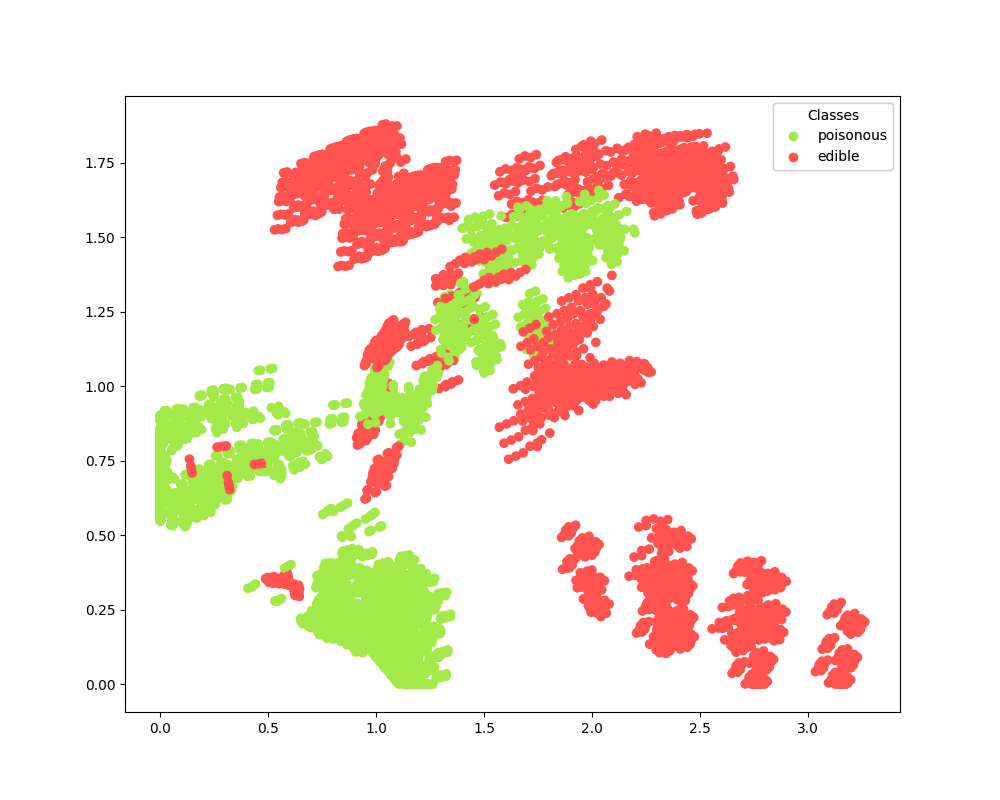
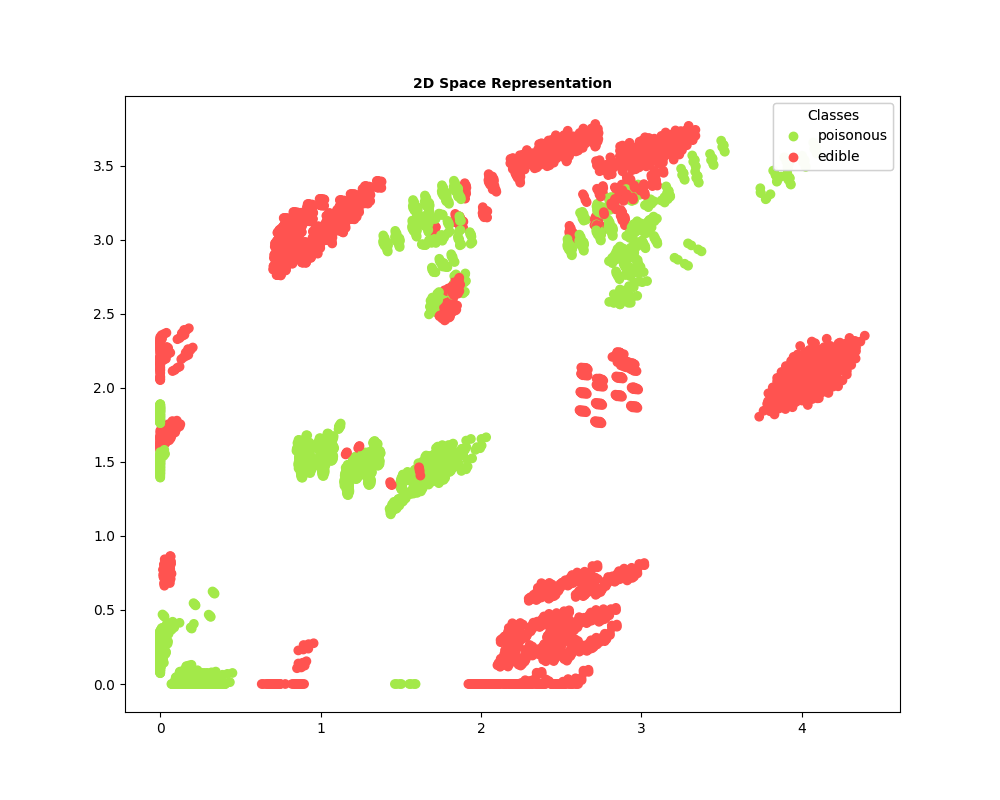
Add additional graphs

diff --git a/autoencoder/mushroom-dataset-autoencoder/encoder.py b/autoencoder/mushroom-dataset-autoencoder/encoder.py
@@ -91,6 +91,7 @@ def plot_encoded_dims(data):
     legend.get_texts()[1].set_text('edible')
 
     ax.add_artist(legend)
+    plt.title('2D Space Representation', fontsize=10, fontweight='bold')
     plt.savefig('images/2D_visualisation')
     plt.show()
 

diff --git a/autoencoder/mushroom-dataset-autoencoder/README.md b/autoencoder/mushroom-dataset-autoencoder/README.md
@@ -31,10 +31,14 @@ The architecture of the autoencoder consists of an encoder with:
 
 ## 2D Representation
 
-The plot shows that the two classes are not linearly separable when represented in a 2D space (reducing the dimensions to a 3D rather than a 2D space added no meaningful benefit to the data visualisation). Nevertheless, a
-[deep neural network](https://github.com/Carla-de-Beer/tensorflow-2.x-projects/tree/master/dff/classifier/mushroom-dataset-classifier)
-is easily capable to differentiate between the two classes with a high level of accuracy.
+The plots show that the two classes are not linearly separable when represented in a 2D space
+(reducing the dimensions to a 3D rather than a 2D space added no meaningful benefit to the data visualisation).
+The graphs at times also display some clumping together of data points within a class.
+Nevertheless, a [deep neural network](https://github.com/Carla-de-Beer/tensorflow-2.x-projects/tree/master/dff/classifier/mushroom-dataset-classifier) is easily capable to differentiate between the two classes with a high level of accuracy.
 
 <p align="center">
-  <img src="images/2D_visualisation.png" width="650px"/>
+  <img src="images/2D_visualisation_3.png" width="350px"/>
+  <img src="images/2D_visualisation_6.png" width="350px"/>
+  <img src="images/2D_visualisation_7.png" width="350px"/>
+  <img src="images/2D_visualisation_9.png" width="350px"/>
 </p>
